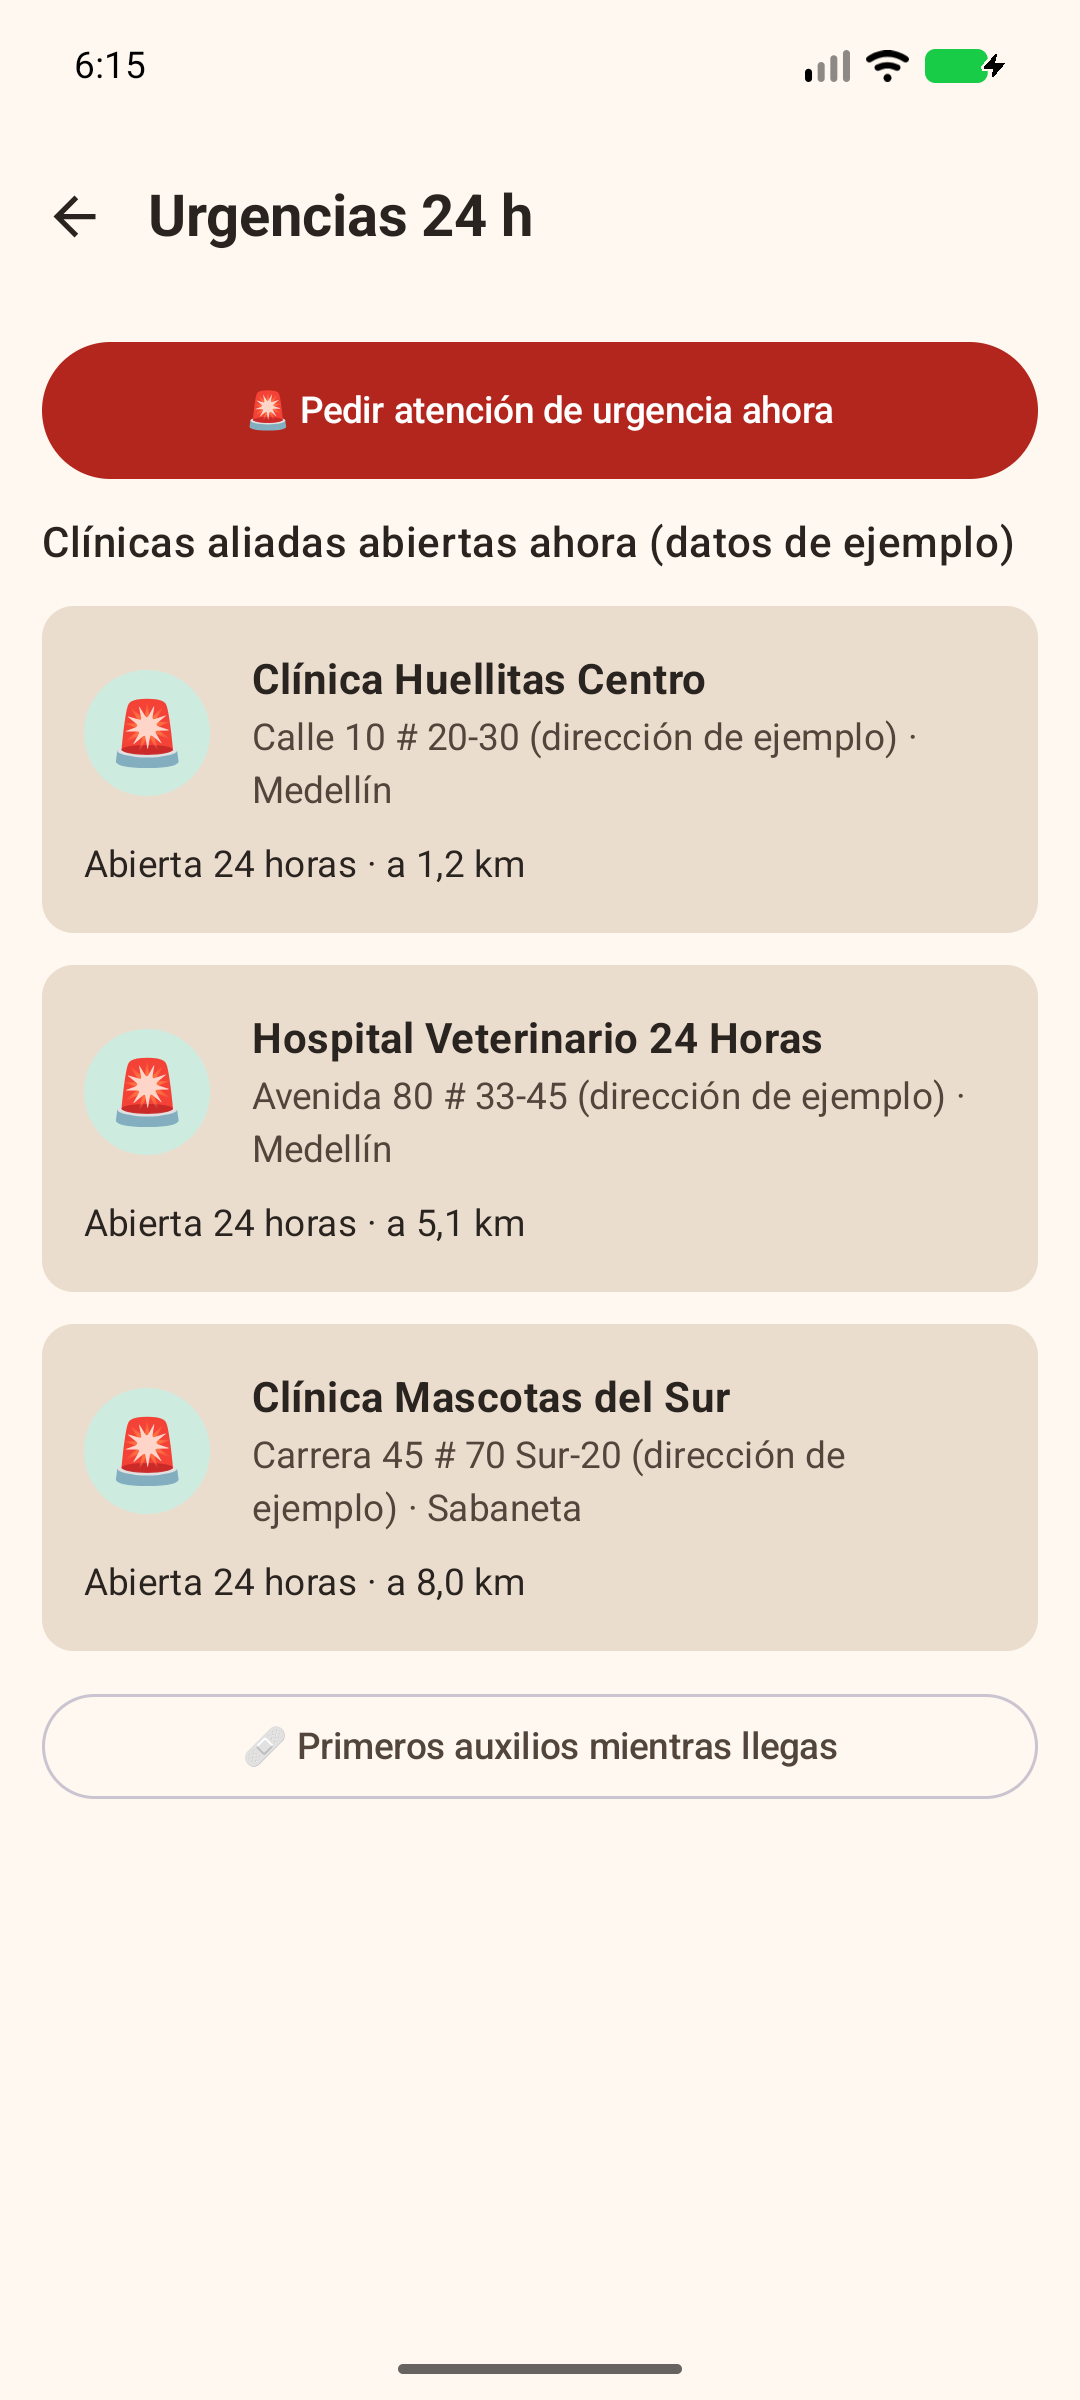
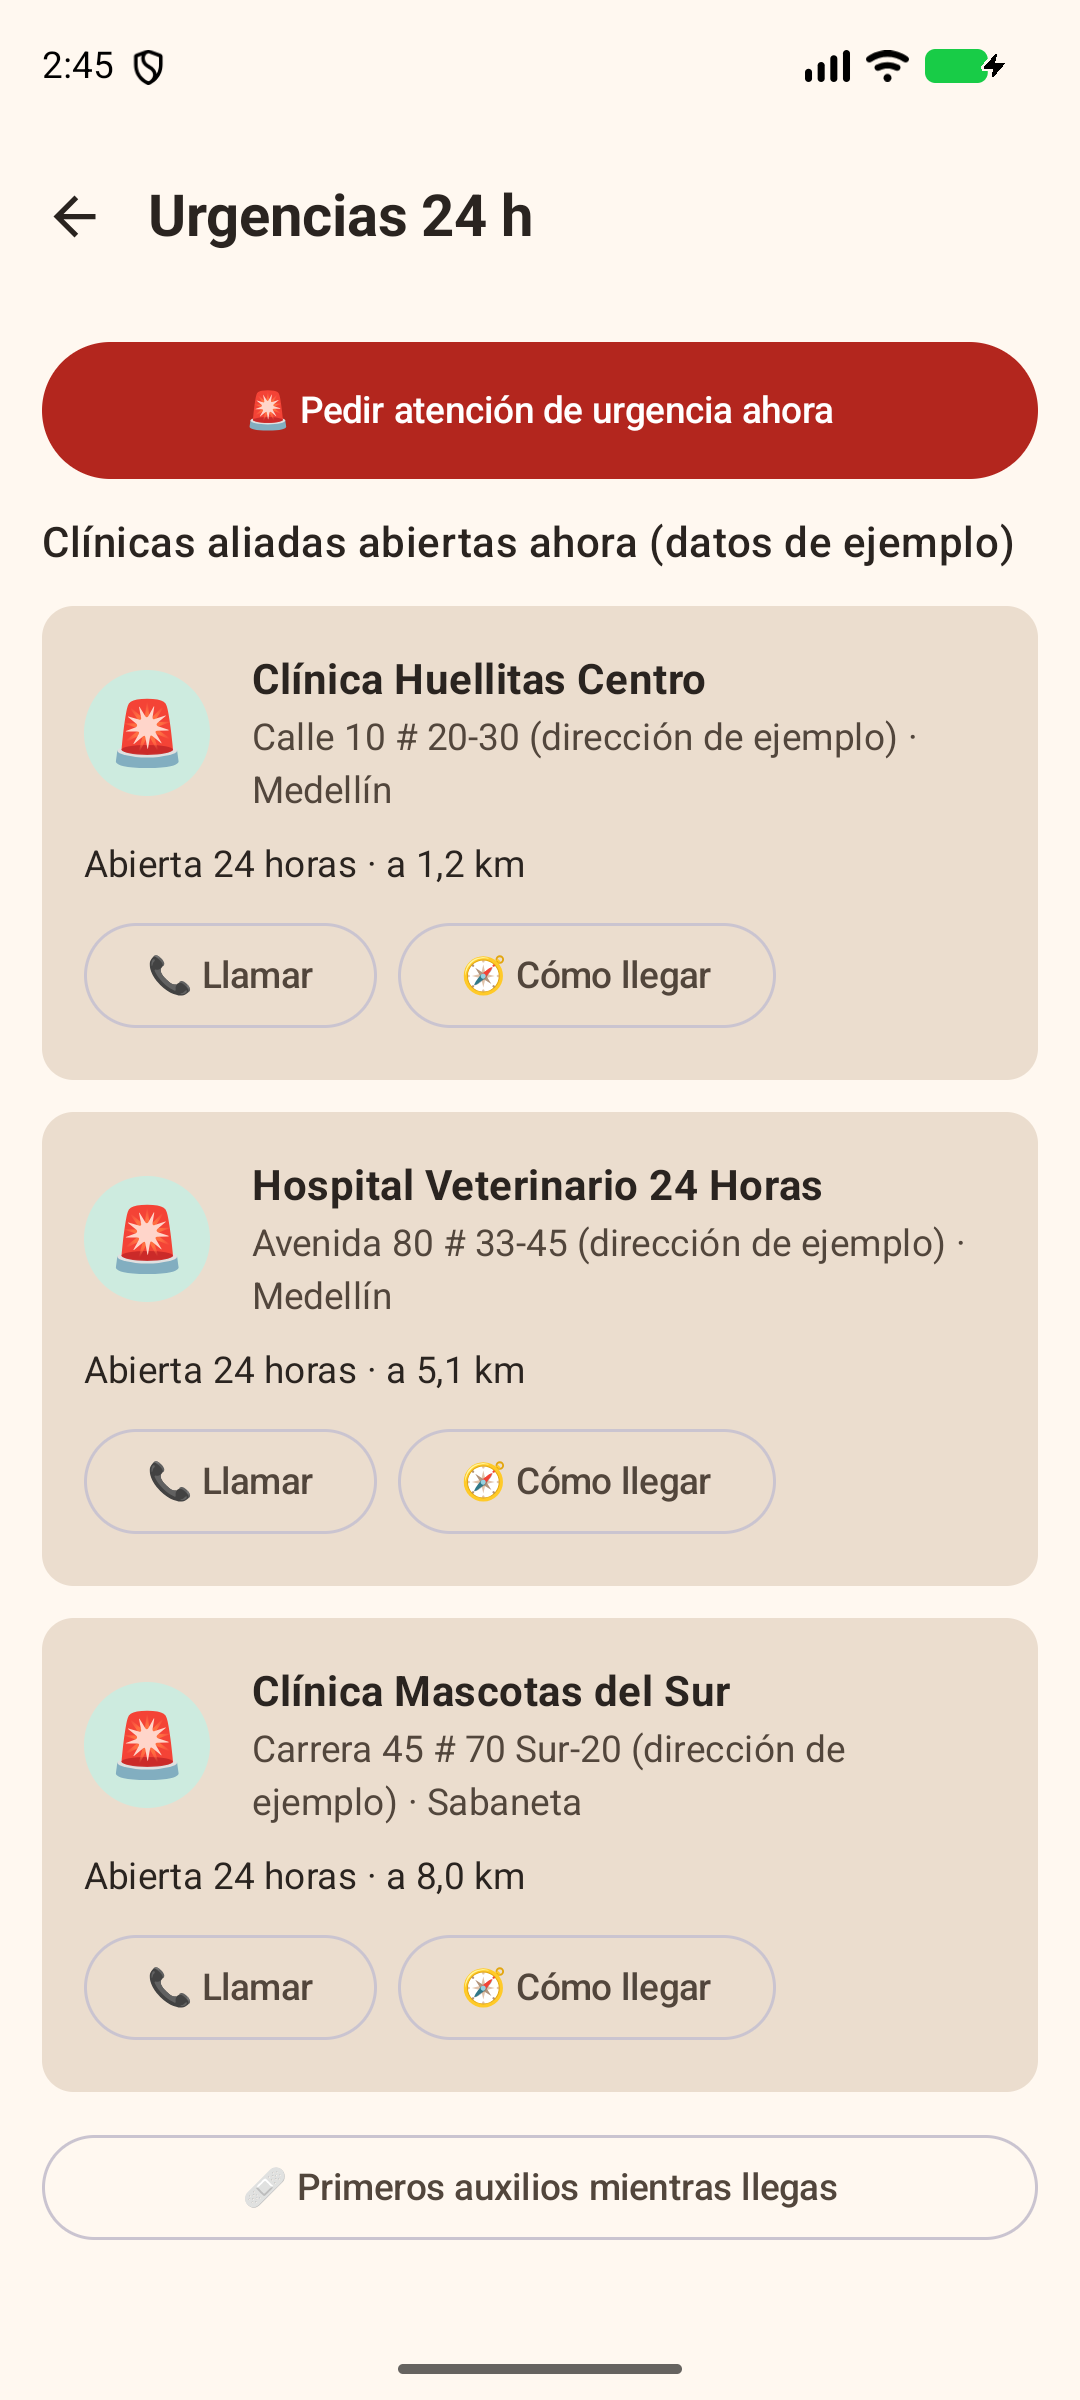
Capturas actualizadas para Play (8) y documentos al día: la app está completa

diff --git a/docs/entrega-3-checklist.md b/docs/entrega-3-checklist.md
@@ -2,7 +2,7 @@
 
 Enunciado: https://xacarana.com/cursos/aplicaciones_moviles/#/6. Revisado el 21 de octubre de 2026.
 
-**Lo único que falta es la parte de Nicolás.** Todo lo demás está hecho o listo para el día de la entrega.
+**Todas las pantallas y funciones están hechas (21 de octubre de 2026).** Lo que falta es el diseño de Nicolás (dibujo a mano y Figma), las pruebas en la tablet y enviar la ficha a Play.
 
 ## Lo que pide el taller
 
@@ -22,12 +22,12 @@ Enunciado: https://xacarana.com/cursos/aplicaciones_moviles/#/6. Revisado el 21 
 | Sección **configuración** | Hecho | `ui/OtherScreens.kt` |
 | Sección **créditos** (información del estudiante) | Hecho para Federico; falta el nombre de Nicolás (N-01) | `ui/OtherScreens.kt` |
 | Montaje en Android Studio | Hecho | `app/` |
-| Implementar las funcionalidades | Parte de Federico hecha (ver abajo); **falta la de Nicolás** | |
+| Implementar las funcionalidades | **Hecho**, incluidas las que estaban asignadas a Nicolás (Federico las terminó para poder publicar) | |
 | Probar en un dispositivo físico | **Falta (Federico):** conectar la tablet y correr el recorrido | tarjeta F-15 |
 | Nombre, recursos gráficos y descripción para el lanzamiento | Hecho | [`play-store.md`](play-store.md), `docs/play/` |
 | Firmar y generar el `.aab` | Hecho (se vuelve a generar al final) | `app\build\outputs\bundle\release\` |
 | Política de privacidad pública (la exige Play) | Hecho | https://federicochalaca.github.io/huellitas/politica-de-privacidad |
-| Capturas de pantalla (mín. 4, 1080 px) | Hecho: 6 | `docs/play/capturas/` |
+| Capturas de pantalla (mín. 4, 1080 px) | Hecho: 8 | `docs/play/capturas/` |
 | Publicar en Google Play | **Falta, y va al final**, cuando la app esté completa | tarjeta F-12 |
 | Presentación: arquitectura, vistas, funcionalidades y publicación | Guion listo | [`presentacion.md`](presentacion.md) |
 
@@ -40,7 +40,7 @@ Enunciado: https://xacarana.com/cursos/aplicaciones_moviles/#/6. Revisado el 21 
 | Diseño en papel | 10 | **Falta (Nicolás, N-37)** |
 | Diseño en Figma | 10 | **Falta (Nicolás, N-38)** |
 | Montaje en Android Studio | 20 | Hecho |
-| Funcionalidades | 20 | **Mitad hecha; falta la de Nicolás** |
+| Funcionalidades | 20 | Hecho |
 | Publicación en Google Play | 20 | Listo para subir cuando la app esté completa |
 
 ## Funcionalidades hechas (Federico)

diff --git a/docs/play-store.md b/docs/play-store.md
@@ -1,6 +1,6 @@
 # Ficha de Google Play (borrador listo para pegar)
 
-Estado (21 de octubre de 2026): textos, ícono, gráfico, capturas y política de privacidad listos. Lo único que falta para publicar es que **la app esté completa** (la parte de Nicolás): hoy hay pantallas con 🚧 y Play puede rechazar una app con pantallas vacías. Cuando esté completa: generar el `.aab` final y subirlo.
+Estado (21 de octubre de 2026): **todo listo para subir.** La app ya no tiene pantallas en construcción; el `.aab` firmado está en `release/huellitas-1.0.0.aab`. Los pasos exactos están en [`publicar-en-play.md`](publicar-en-play.md).
 
 ## Datos básicos
 
@@ -48,7 +48,7 @@ Hecha con Kotlin y Jetpack Compose como proyecto de la materia Aplicaciones Móv
 - Ícono 512×512: `icono-512.png` (sin transparencia).
 - Gráfico de funciones 1024×500: `grafico-funciones-1024x500.png` (sin transparencia).
 - Se regeneran con `docs/play/generar.mjs`.
-- **Capturas de teléfono:** 6 listas en `docs/play/capturas/` (1080×2160, sin transparencia, con una cuenta de prueba y datos inventados): Mis mascotas, Pendientes, Mis citas, Seguro, Afiliar a un plan y Urgencias. Play pide una relación de aspecto de 2:1 como máximo; por eso están recortadas del 1080×2400 del emulador. Son de pantallas que ya están terminadas. Si al final cambian mucho, se repiten con `docs/guia-diseno/`.
+- **Capturas de teléfono:** 8 listas en `docs/play/capturas/` (1080×2160, sin transparencia, con una cuenta de prueba y datos inventados): Mis mascotas, Pendientes, Mis citas, Seguro, Afiliar a un plan, Urgencias, Póliza y Cotización. Play pide una relación de aspecto de 2:1 como máximo; por eso están recortadas del 1080×2400 del emulador. Son de pantallas que ya están terminadas. Si al final cambian mucho, se repiten con `docs/guia-diseno/`.
 
 ## Contenido de la aplicación (respuestas)
 
